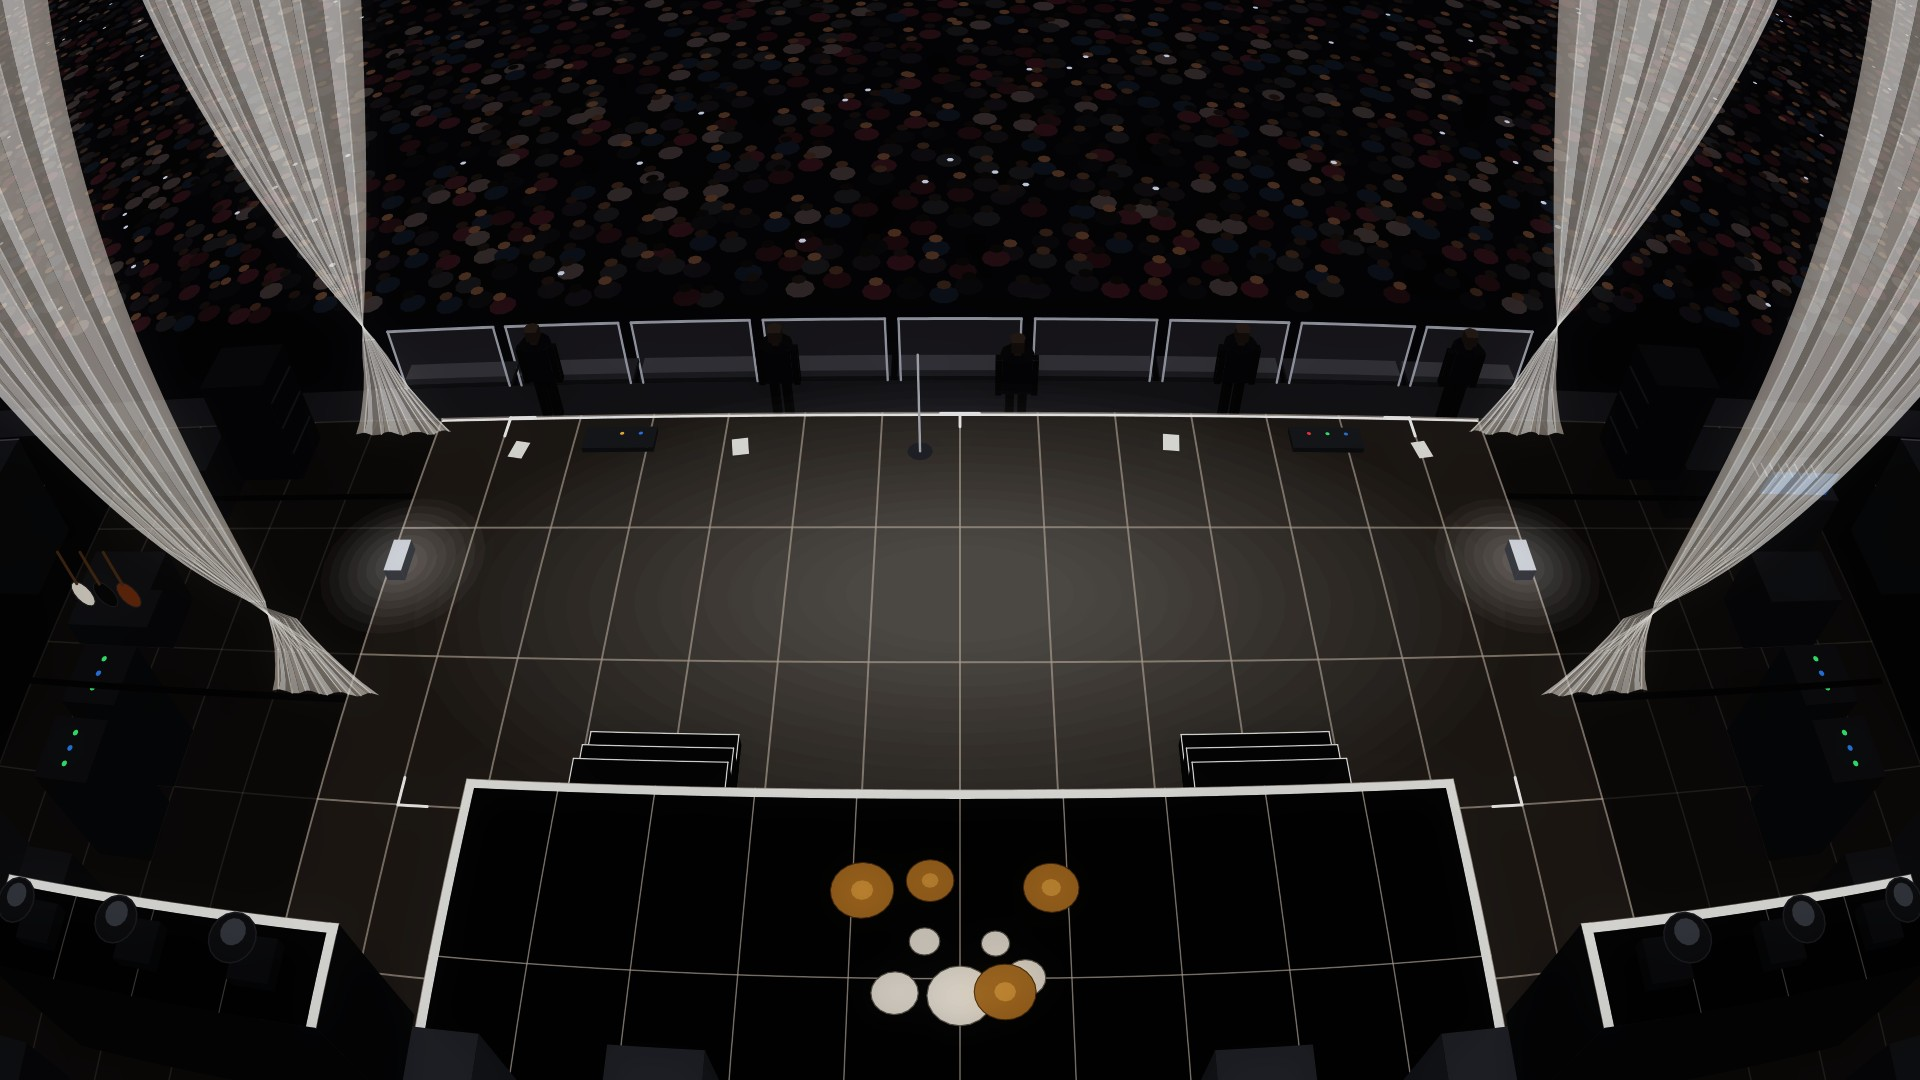
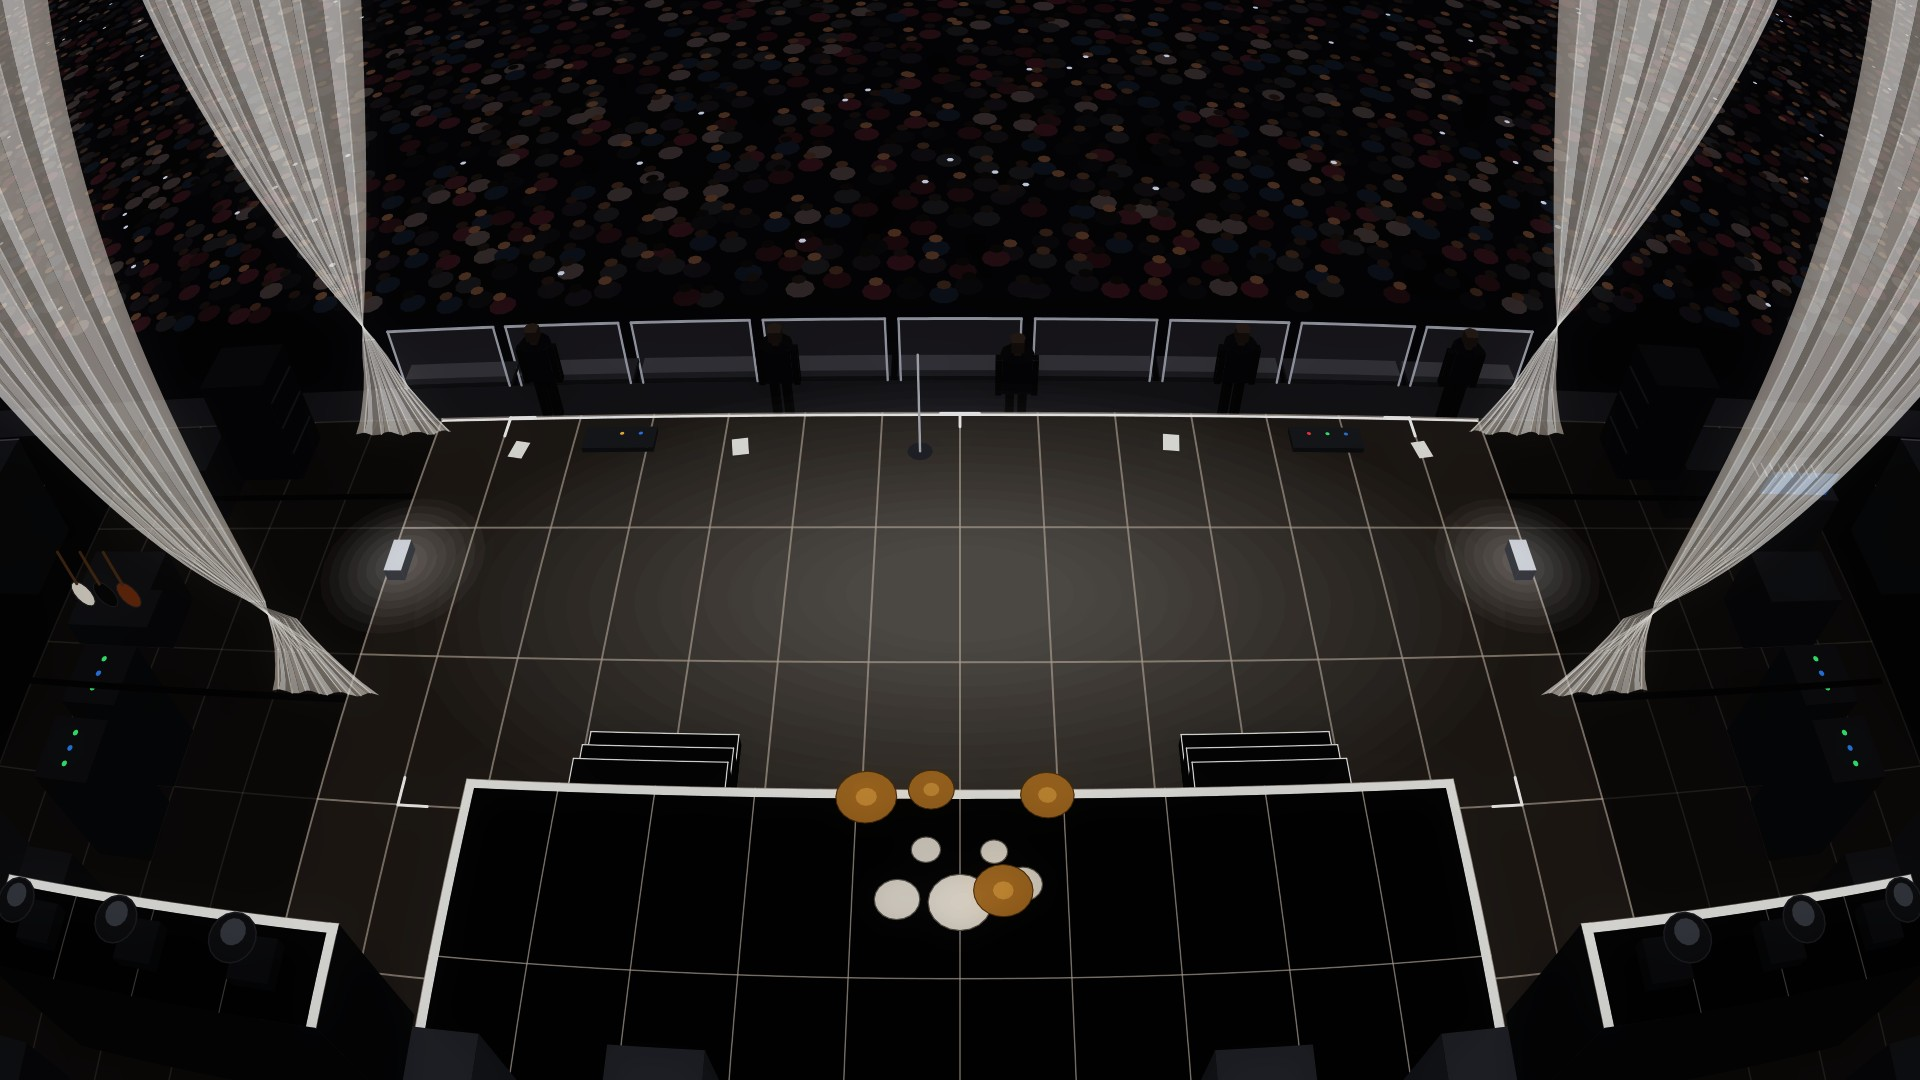
chore(gallery): move the Concert's drum kit toward the riser's front

Changed region(s): [[0.4375, 0.7028, 0.5625, 0.9472], [0.5312, 0.7028, 0.5625, 0.7639]]

diff --git a/scripts/gen_concert_default.py b/scripts/gen_concert_default.py
@@ -377,7 +377,7 @@ def riser(out: list[str]) -> None:
         out.append(poly(strip, "#f4f4f2"))
     for xa in (-4.3, -2.4, 2.4, 4.3):  # backline amps
         box(out, xa - 0.4, xa + 0.4, y1 - 0.8, y1 - 0.2, h, h + 1.2, "#3e4148", "#2b2d32")
-    drum = (0.0, y0 + 2.2)
+    drum = (0.0, y0 + 1.3)
     for dx, dy, r, z in (
         (0.0, 0.2, 0.28, 0.55),
         (-0.3, -0.2, 0.12, 0.75),
